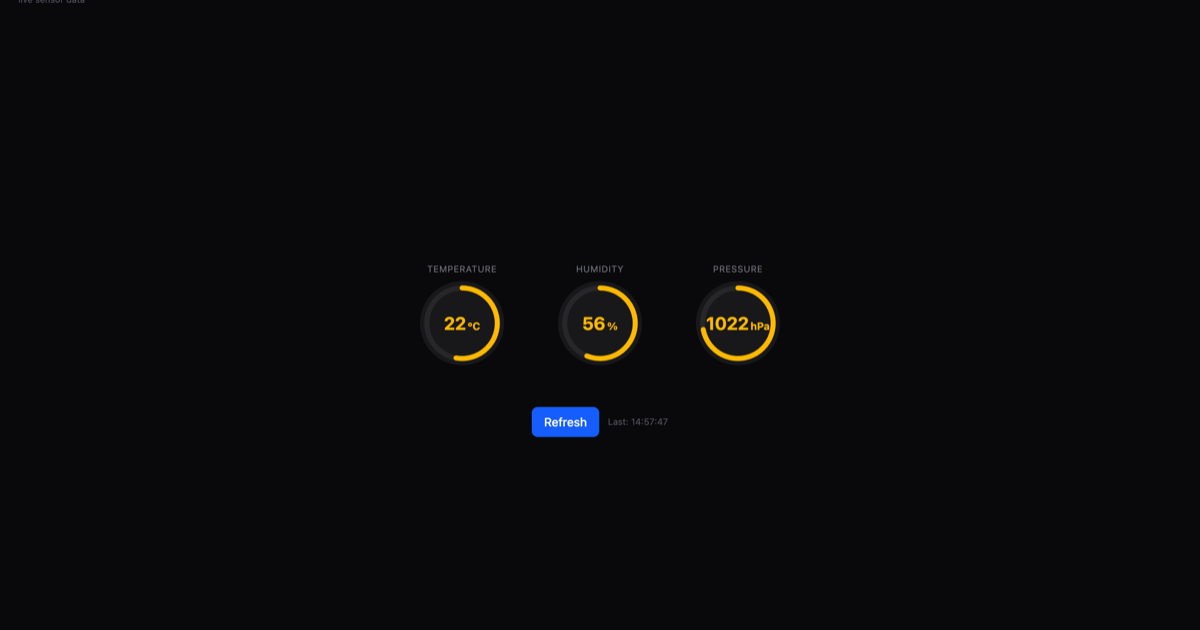
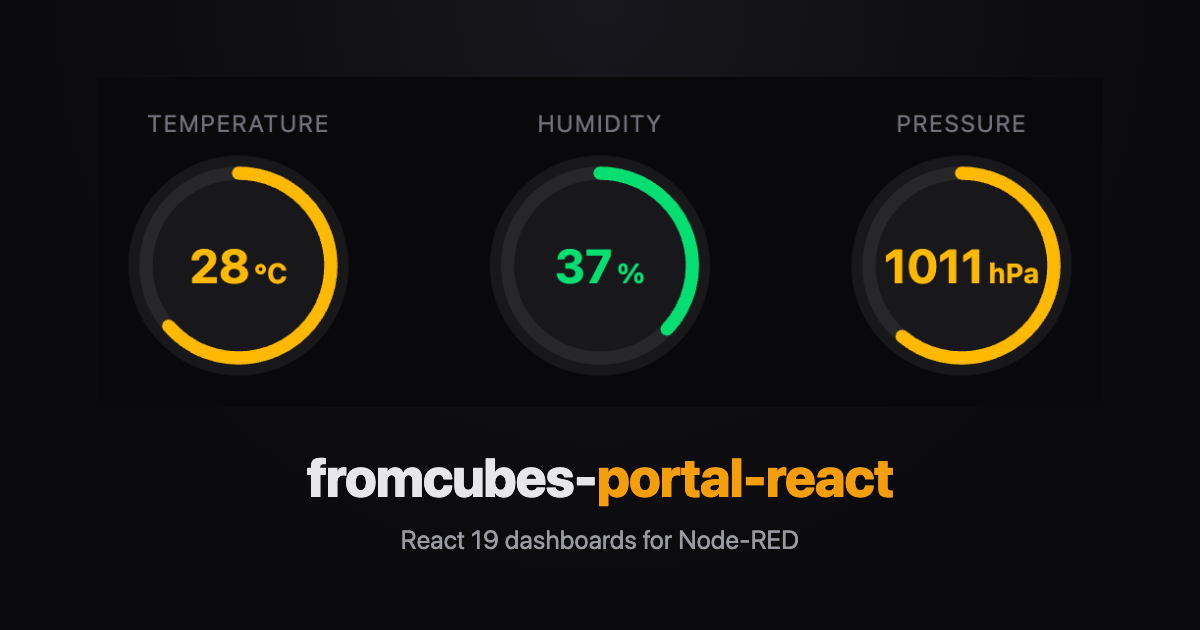
docs: animated dashboard gif, branded og-image, ko-fi colors, properties tab note

diff --git a/website/index.html b/website/index.html
@@ -80,6 +80,8 @@
   .btn:hover { text-decoration: none; border-color: #3a3a42; }
   .btn.primary { background: var(--accent); border-color: var(--accent); color: #1a1205; }
   .btn.primary:hover { filter: brightness(1.08); }
+  .btn.kofi { background: #ff5e5b; border-color: #ff5e5b; color: #fff; }
+  .btn.kofi:hover { filter: brightness(1.08); }
 
   .features {
     display: grid; grid-template-columns: repeat(3, 1fr);
@@ -202,7 +204,7 @@
     <div class="cta">
       <a class="btn primary" href="#install">Get started</a>
       <a class="btn" href="https://github.com/Aaqu/fromcubes-portal-react">Source on GitHub</a>
-      <a class="btn" href="https://ko-fi.com/L4L01UOFRG">☕ Support on Ko-fi</a>
+      <a class="btn kofi" href="https://ko-fi.com/L4L01UOFRG">☕ Support on Ko-fi</a>
     </div>
   </div>
 
@@ -297,7 +299,7 @@ return msg;</pre>
   <div class="wrap">
     <span class="step-tag"><span class="n">4</span> React code</span>
     <h2>Paste React straight into the node</h2>
-    <p>Double-click the <strong>Sensor Portal</strong> node. The <strong>JSX</strong> tab holds the page's <code>App()</code> component in a Monaco editor with JSX highlighting, Tailwind class completion and tag completion for your shared components. The <strong>URL sub-path</strong> field (here <code>sensors</code>) decides where the page is served: <code>/fromcubes/sensors</code>.</p>
+    <p>Double-click the <strong>Sensor Portal</strong> node. The <strong>JSX</strong> tab holds the page's <code>App()</code> component in a Monaco editor with JSX highlighting, Tailwind class completion and tag completion for your shared components. The <strong>URL sub-path</strong> field — set in the <strong>Properties</strong> tab next to it (here <code>sensors</code>) — decides where the page is served: <code>/fromcubes/sensors</code>.</p>
     <figure>
       <a href="img/04-edit-portal-jsx.png"><img src="img/04-edit-portal-jsx.png" alt="portal-react node edit dialog with the App component JSX visible in the Monaco editor" loading="lazy"></a>
       <figcaption>The portal node editor — React code exactly as you write it, compiled at deploy.</figcaption>
@@ -362,8 +364,8 @@ return msg;</pre>
     <h2>Open the dashboard</h2>
     <p>Navigate to <code>http://&lt;your-host&gt;:1880/fromcubes/sensors</code>. The gauges animate every two seconds as the inject node fires; every open tab stays in sync because broadcast messages reach all connected clients. Clicking <strong>Refresh</strong> emits a message on the portal node's output wire — check the debug sidebar.</p>
     <figure>
-      <a href="img/06-dashboard.png"><img src="img/06-dashboard.png" alt="Live Sensor Portal dashboard with three animated gauges: temperature, humidity, pressure" loading="lazy"></a>
-      <figcaption>The finished portal at <em>/fromcubes/sensors</em> — live data, zero client-side compilation.</figcaption>
+      <a href="img/06-dashboard.gif"><img src="img/06-dashboard.gif" alt="Live Sensor Portal dashboard with three animated gauges: temperature, humidity, pressure" loading="lazy"></a>
+      <figcaption>The finished portal at <em>/fromcubes/sensors</em> — live data updating every 2 s, zero client-side compilation.</figcaption>
     </figure>
   </div>
 </section>